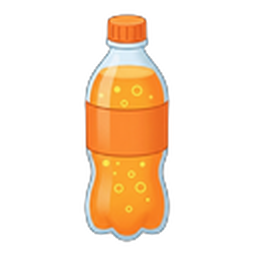
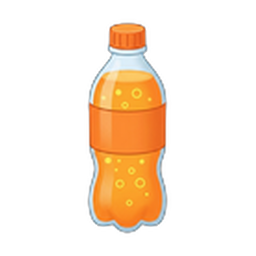
Normalize new item artwork bounds

Changed region(s): [[0.3125, 0.0312, 0.6875, 0.9688], [0.4688, 0.7812, 0.5312, 0.8438]]

diff --git a/docs/PROJECT_MAP.md b/docs/PROJECT_MAP.md
@@ -500,6 +500,8 @@ Change here when:
 
 Add a new item type:
 - Add the item image under `assets/items/`.
+- Use a transparent `256x256` canvas and keep the visible artwork within approximately `132x220`
+  pixels, centered on the canvas, so the shared shelf-item scale fits every slot consistently.
 - Add an entry to `configs/item_sprites.json`.
 - Schedule the item exactly once in `configs/item_progression.json`.
 - Rematerialize runtime levels if the item should affect an existing milestone.
